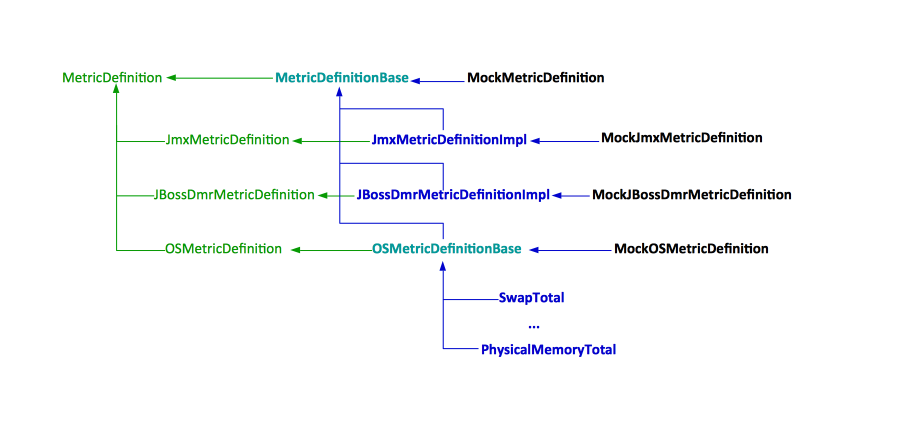
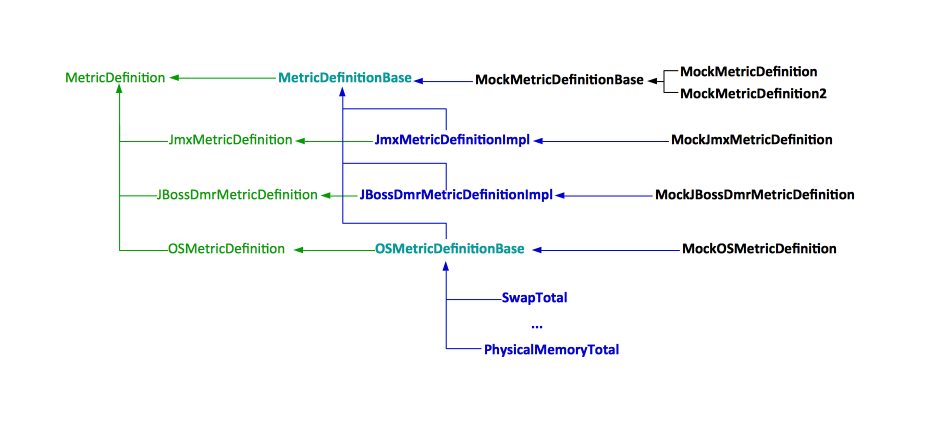
MetricDefinition type hierarchy refactoring (1)

Changed region(s): [[0.0607, 0.1522, 0.9404, 0.8525], [0.7281, 0.1522, 0.9101, 0.2436]]

diff --git a/src/test/java/io/novaordis/events/api/metric/MockMetricDefinitionBase.java b/src/test/java/io/novaordis/events/api/metric/MockMetricDefinitionBase.java
@@ -16,7 +16,6 @@
 
 package io.novaordis.events.api.metric;
 
-
 import io.novaordis.events.api.measure.MeasureUnit;
 import io.novaordis.utilities.address.Address;
 
@@ -24,7 +23,7 @@ import io.novaordis.utilities.address.Address;
  * @author Ovidiu Feodorov <ovidiu@novaordis.com>
  * @since 8/4/16
  */
-abstract class MockMetricDefinitionBase extends MetricDefinitionBase implements MetricDefinition {
+abstract class MockMetricDefinitionBase extends MetricDefinitionBase {
 
     // Constants -------------------------------------------------------------------------------------------------------
 
@@ -38,27 +37,31 @@ abstract class MockMetricDefinitionBase extends MetricDefinitionBase implements 
      * @param metricSourceAddress must always have a non-null source.
      */
     protected MockMetricDefinitionBase(Address metricSourceAddress) {
+
         super(metricSourceAddress);
     }
+
+    // Public ----------------------------------------------------------------------------------------------------------
 
     // MetricDefinition implementation ---------------------------------------------------------------------------------
 
     @Override
+    public Class getType() {
+
+        throw new RuntimeException("getType() NOT YET IMPLEMENTED");
+    }
+
+    @Override
     public MeasureUnit getBaseUnit() {
+
         throw new RuntimeException("getBaseUnit() NOT YET IMPLEMENTED");
     }
 
     @Override
     public String getDescription() {
+
         throw new RuntimeException("getDescription() NOT YET IMPLEMENTED");
     }
-
-    @Override
-    public Class getType() {
-        throw new RuntimeException("getType() NOT YET IMPLEMENTED");
-    }
-
-    // Public ----------------------------------------------------------------------------------------------------------
 
     // Package protected -----------------------------------------------------------------------------------------------
 

diff --git a/src/test/java/io/novaordis/events/api/metric/MockMetricDefinition2.java b/src/test/java/io/novaordis/events/api/metric/MockMetricDefinition2.java
@@ -20,9 +20,12 @@ package io.novaordis.events.api.metric;
 import io.novaordis.utilities.address.Address;
 
 /**
+ * Invoked via reflection.
+ *
  * @author Ovidiu Feodorov <ovidiu@novaordis.com>
  * @since 8/3/16
  */
+@SuppressWarnings("unused")
 public class MockMetricDefinition2 extends MockMetricDefinitionBase {
 
     // Constants -------------------------------------------------------------------------------------------------------
@@ -34,12 +37,14 @@ public class MockMetricDefinition2 extends MockMetricDefinitionBase {
     // Constructors ----------------------------------------------------------------------------------------------------
 
     /**
+     * Invoked via reflection.
+     *
      * @param metricSourceAddress must always have a non-null source.
      */
+    @SuppressWarnings("unused")
     protected MockMetricDefinition2(Address metricSourceAddress) {
         super(metricSourceAddress);
     }
-
 
     // MetricDefinition implementation ---------------------------------------------------------------------------------
 
@@ -50,6 +55,7 @@ public class MockMetricDefinition2 extends MockMetricDefinitionBase {
 
     @Override
     public String getSimpleLabel() {
+
         throw new RuntimeException("getSimpleLabel() NOT YET IMPLEMENTED");
     }
 
